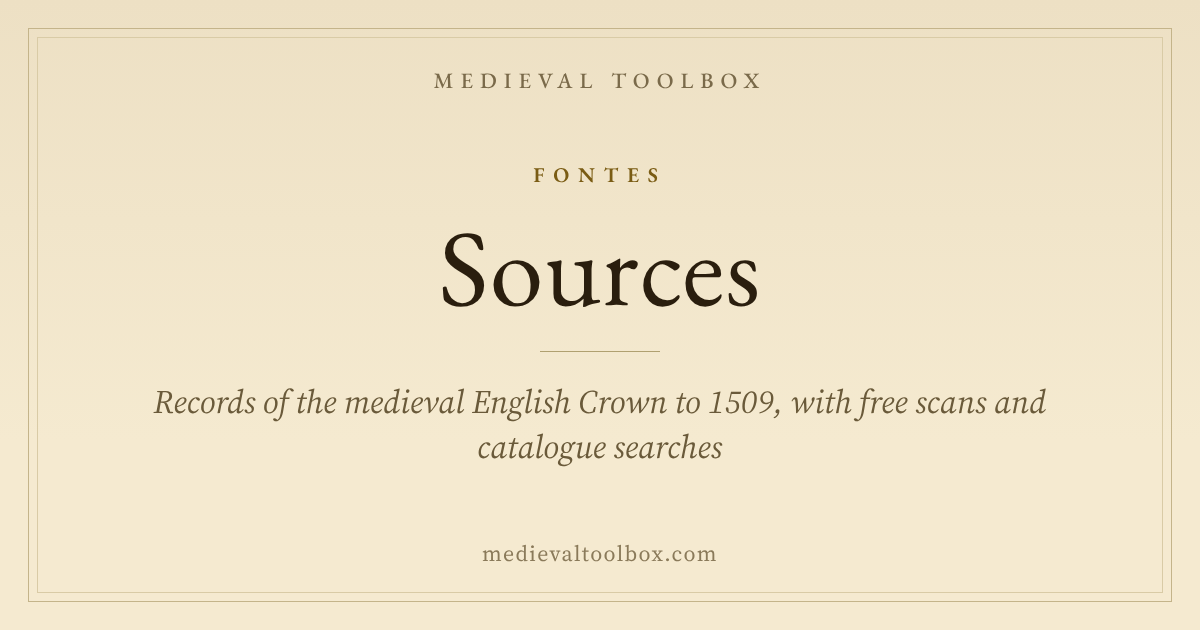
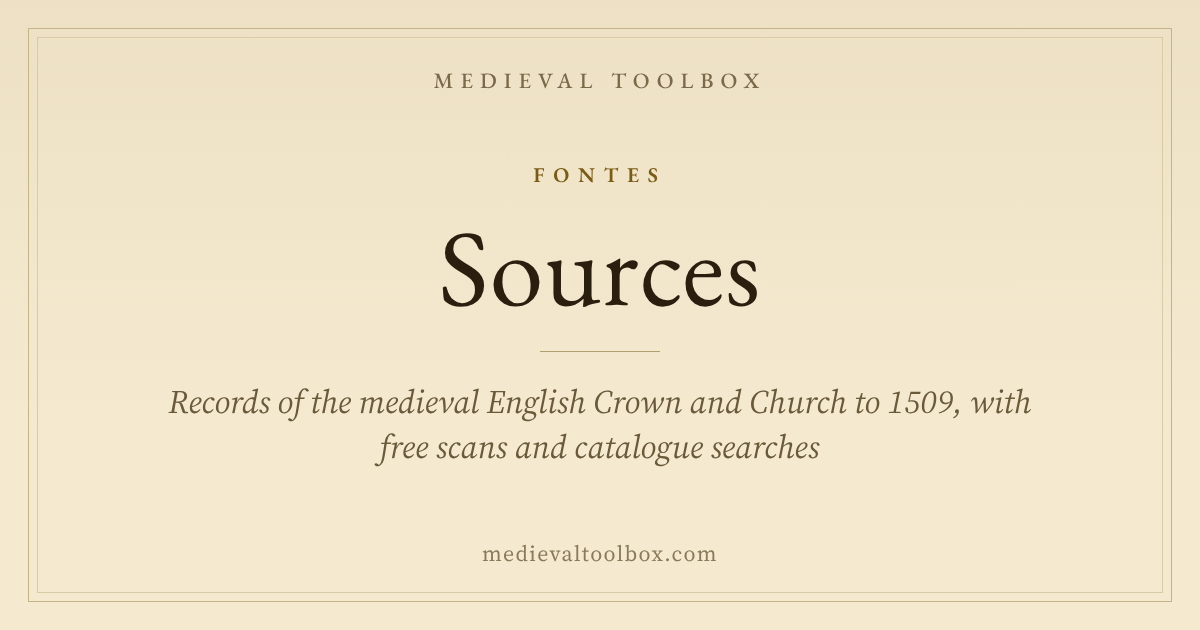
push

Changed region(s): [[0.1233, 0.6032, 0.8633, 0.6635], [0.3083, 0.6937, 0.6783, 0.754]]

diff --git a/about.html b/about.html
@@ -78,7 +78,7 @@
         <li><strong><a href="anno-regni.html">Regnal Year Converter</a></strong> <span class="latin">Anno Regni</span><br>Converts regnal years to modern dates and back, from William I to Charles III, down to the day and month.</li>
         <li><strong><a href="calendarium.html">Medieval Calendar</a></strong> <span class="latin">Calendarium</span><br>Saints&rsquo; days, moveable feasts, law terms and return days for any year.</li>
         <li><strong><a href="nummus.html">Money &amp; Units</a></strong> <span class="latin">Nummus</span><br>A pounds, shillings and pence calculator, with converters for coin denominations and medieval weights and measures.</li>
-        <li><strong><a href="fontes.html">Sources</a></strong> <span class="latin">Fontes</span><br>A guide to the records of the medieval English Crown to 1509, from Chancery, the Exchequer, the courts and the Special Collections, with links to free scans of the printed calendars, images of the original rolls, and searches of The National Archives&rsquo; catalogue.</li>
+        <li><strong><a href="fontes.html">Sources</a></strong> <span class="latin">Fontes</span><br>A guide to the records of the medieval English Crown and Church to 1509, from Chancery, the Exchequer, the courts, the Special Collections, and papal, episcopal, monastic and clergy records, with links to free scans of the printed calendars, images of the original rolls, and searches of The National Archives&rsquo; catalogue.</li>
       </ul>
       <p>More tools are in development and will be added here as they are ready.</p>
     </section>

diff --git a/index.html b/index.html
@@ -165,7 +165,7 @@
       <span class="arrow">&#8599;</span>
       <div class="tool-tag">Fontes</div>
       <h2>Sources</h2>
-      <p>Published calendars, editions, and TNA references for the records of Chancery, Exchequer, the courts, and Special Collections to 1509, with links to free scans, original rolls on AALT, and catalogue searches.</p>
+      <p>Published calendars, editions, and TNA references for the records of Chancery, Exchequer, the courts, Special Collections, and the Church to 1509, with links to free scans, original rolls on AALT, and catalogue searches.</p>
     </a>
   </div>
 
